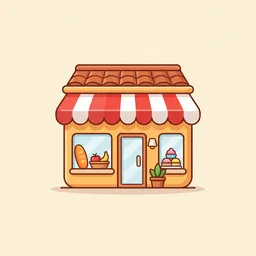
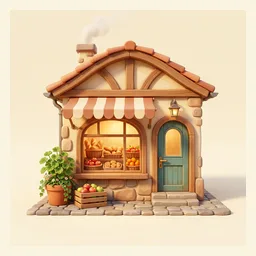
0.117.0: волна B — сад закрыт, десять новых слов

diff --git a/docs/RELEASE-0.117.0.md b/docs/RELEASE-0.117.0.md
@@ -1,0 +1,51 @@
+# 0.117.0 — волна B: сад закрыт, «фамилия» на месте, начало города
+
+Десять новых картинок 2 класса в тёплом 3D-storybook: **фамилия, малина,
+щавель, яблоко, яблоня, ягода, город, улица, магазин, машина**.
+
+## Что стало
+
+| Слово | Сцена |
+|---|---|
+| фамилия | семейный портрет: бабушка, мама, папа и мальчик-школьник |
+| малина | ветка садовой малины с ягодами и листьями |
+| щавель | пучок широких зелёных листьев на влажной земле |
+| яблоко | красное яблоко с листиком и второе в мягкой глубине |
+| яблоня | молодая яблоня с красными яблоками и травой у корней |
+| ягода | плетёная корзинка с лесными ягодами: малина, черника, смородина, земляника |
+| город | тёплый силуэт города из округлых домов и башен на холме |
+| улица | узкая мощёная улица с домами, фонарём, деревьями и велосипедом |
+| магазин | маленькая лавка с полосатым навесом, витриной и ящиком яблок |
+| машина | округлый жёлтый городской автомобиль без номеров и надписей |
+
+Все кадры: 256×256 WebP, q82, без текста, вывесок, логотипов и номеров.
+Вес — **82 КБ на десять** (старые файлы весили 46 КБ). Пак `public/words` —
+**1 440 КБ**.
+
+## Покрытие
+
+В новом стиле **39 слов** 2 класса. Остановки:
+
+* «Школа» — 8/8;
+* «В школе» — 5/5, закрыта;
+* «Птицы» — 5/5;
+* «Звери» — 6/6;
+* «Еда» — 5/5;
+* «Сад и ягоды» — 6/6, закрыта;
+* «Город» — 4/6, остались «завод» и «метро».
+
+Всего картинок 257/367 (70 %). 1–4 классы — 100 %, 5 класс — 17 слов.
+
+## Дальше
+
+«Завод» и «метро» закроют город, затем «Дом и вещи» (8), «Зима» (6),
+«Природа» (7), «Календарь» (7), «Люди» (6), «Труд» (5), «Вежливые слова» (5),
+«Как и когда» (5). Осталось 55 слов 2 класса.
+
+Превью десяти карточек: [`docs/promo/0.117.0/waveB2-preview.webp`](./promo/0.117.0/waveB2-preview.webp).
+
+## Проверки
+
+`npx tsc --noEmit`, `content:check`, `images:report`, `test:smoke`,
+`test:content`, `test:adaptive`, `test:contrast`, `test:guard`, `test:release`,
+`build`, `test:boot`, `release:check` (0.116.1 → 0.117.0) — зелёные.

diff --git a/docs/HANDOFF.md b/docs/HANDOFF.md
@@ -1,11 +1,12 @@
 # HANDOFF — СЛОВО 2.0
 
-**Обновлено:** 2026-11-14. **В этой ветке — 0.116.1**: картинка-подсказка в
+**Обновлено:** 2026-11-14. **В этой ветке — 0.117.0**: ещё десять слов
+2 класса — «фамилия», «малина», «щавель», «яблоко», «яблоня», «ягода»,
+«город», «улица», «магазин», «машина»; всего 39 слов в новом стиле, сад
+закрыт. Картинка-подсказка в
 «Напиши слово» и «Диктанте» занимает почти всю ширину экрана, а после ответа
 пропуск в примере заменяется словом — текст задания, поле ввода и подсказка
-уходят. Девять новых слов 2 класса из 0.116.0 на месте (сорока, собака,
-обезьяна, капуста, молоко, морковь, обед, сахар, земляника); всего 29 слов в
-новом стиле. Урок стал
+уходят. Урок стал
 последовательным — после карточки знакомства сразу идёт задание на то же
 слово, остальные задания перемешаны, повторение в конце. В «Собери» и
 «Исправь» картинка-подсказка стала крупной и идёт без паспарту; пустой
